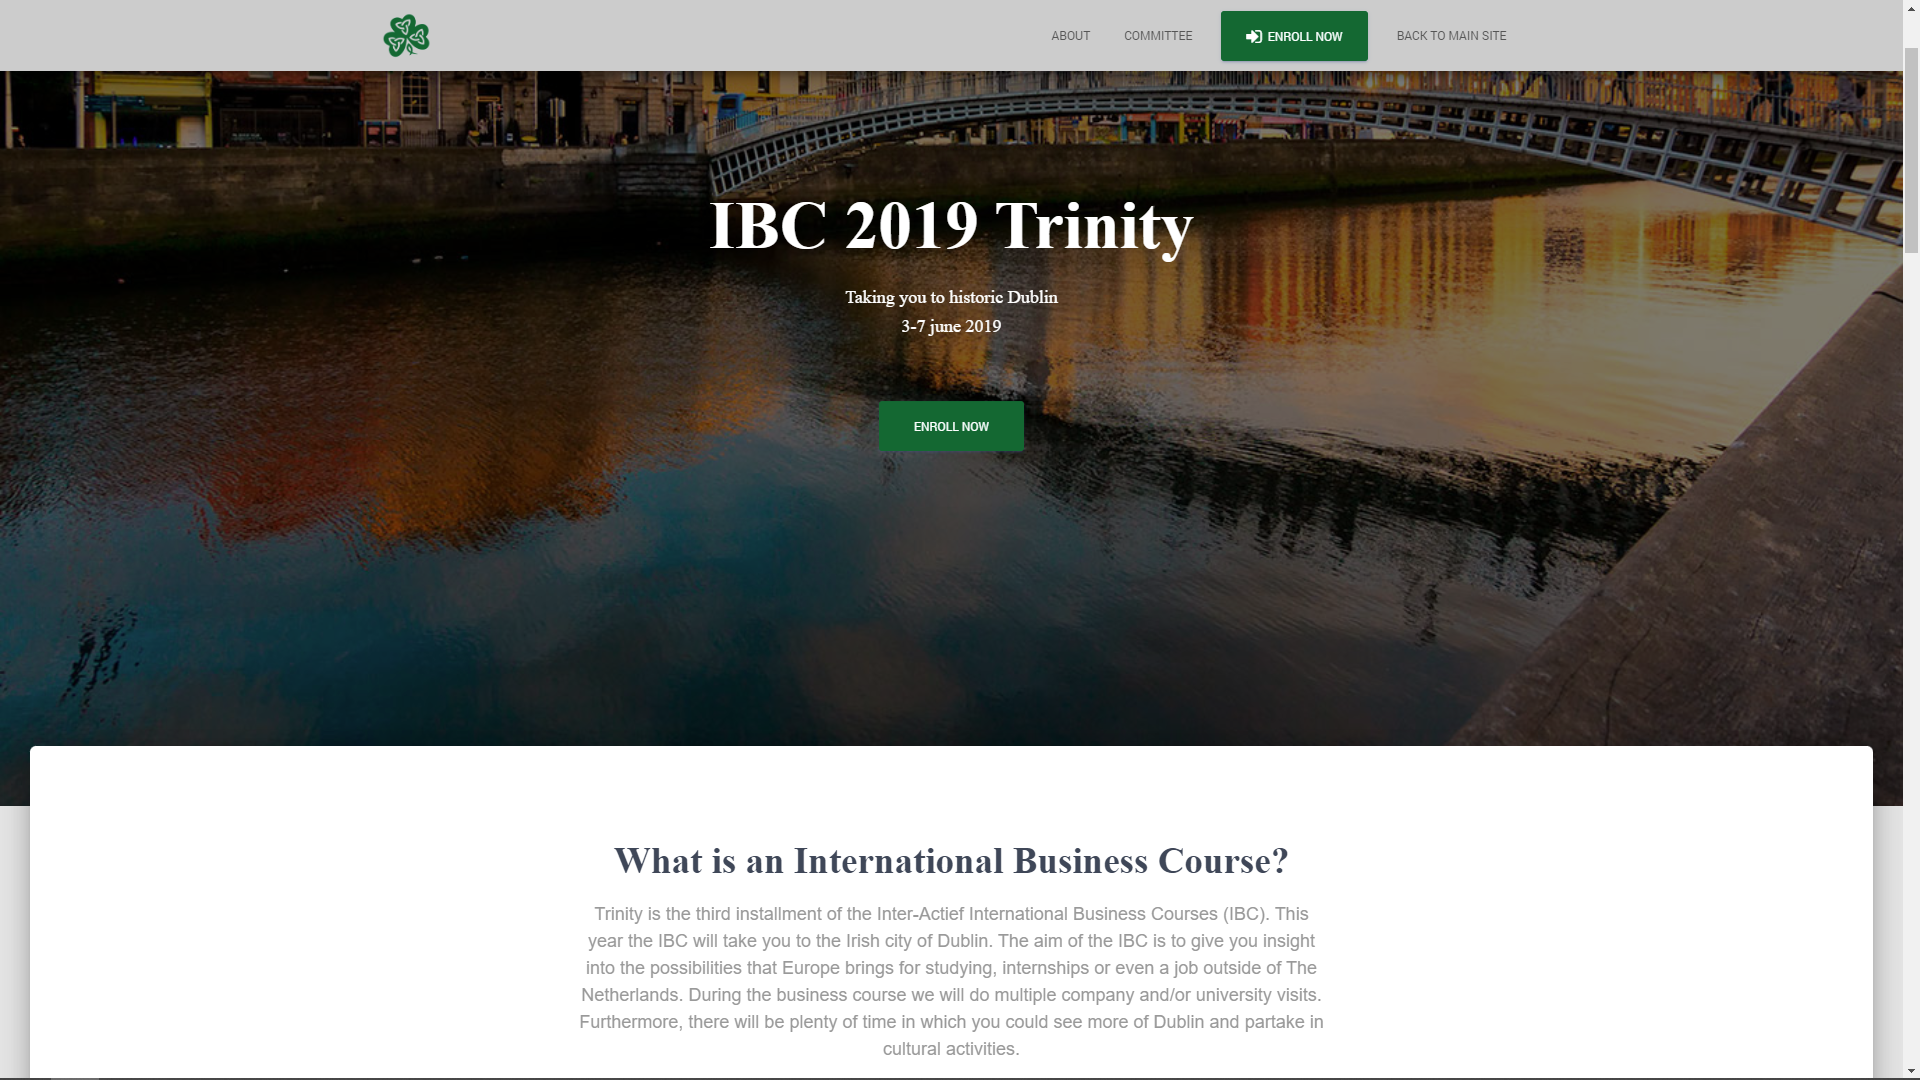
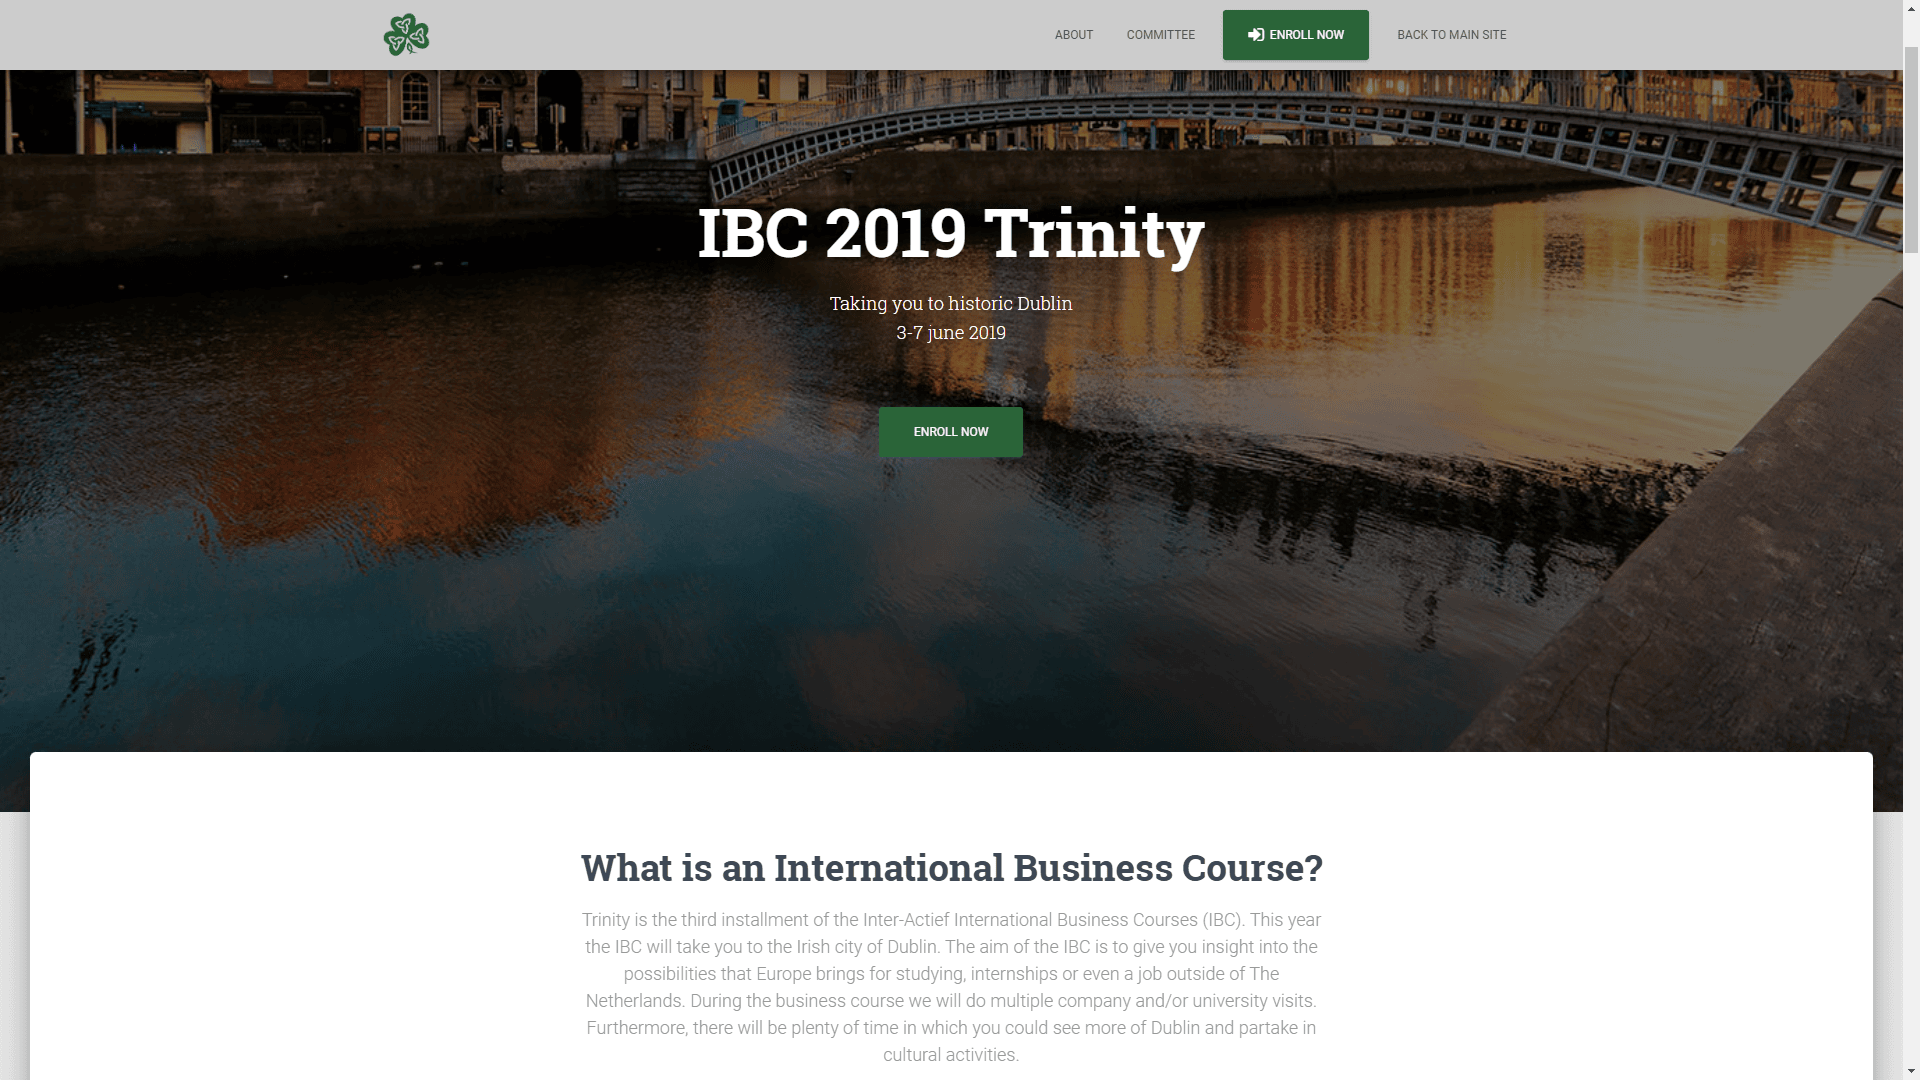
Change title and fix fonts in screenshot

diff --git a/README.md b/README.md
@@ -1,4 +1,4 @@
-# trinity
+# International Business Course 2019: Trinity
 Backup of the Inter-Actief International Business Course 2019 website.
 
 ![Site](img/site.png)
